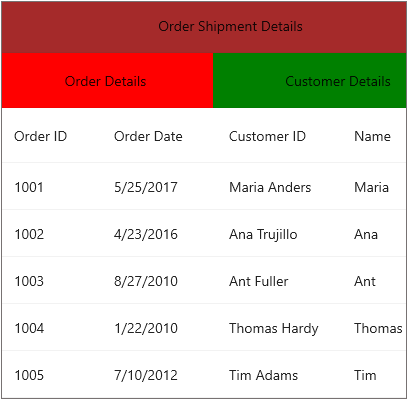
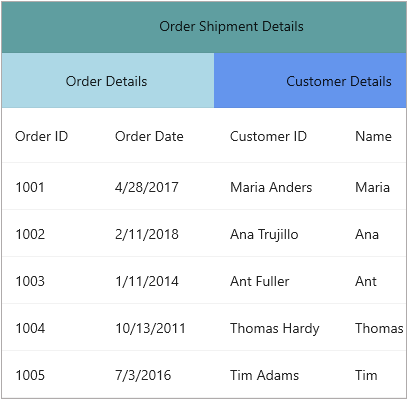
Updated code and image

diff --git a/MAUI/DataGrid/Stacked-Header.md b/MAUI/DataGrid/Stacked-Header.md
@@ -183,6 +183,7 @@ The appearance of stacked header row can be customized by setting desired values
 <syncfusion:SfDataGrid.DefaultStyle>
     <syncfusion:DataGridStyle
             StackedHeaderRowBackground = "#0074E3"
+            StackedHeaderRowTextColor="White"
             />
 </syncfusion:SfDataGrid.DefaultStyle>
 {% endhighlight %}
@@ -221,29 +222,29 @@ The SfDataGrid also allows to customize the appearance of stacked header Cells c
 {% highlight c# %}
 //Custom style class
  public class CellStyleConverter : IValueConverter
-        {
-            public object Convert(object value, Type targetType, object parameter, CultureInfo culture)
-            {
-                var text = (value as DataGridStackedHeaderCell).CellValue;
+{
+    public object Convert(object value, Type targetType, object parameter, CultureInfo culture)
+    {
+        var text = (value as DataGridStackedHeaderCell).CellValue;
 
-                if (text != null)
-                {
-                    if (text.ToString() == "Order Details")
-                    return Colors.Red;
-                else if (text.ToString() == "Order Shipment Details")
-                    return Colors.Brown;
-                else if (text.ToString() == "Customer Details")
-                    return Colors.Green;  
-                }
-                return Colors.White;
-            }
+    if (text != null)
+    {
+        if (text.ToString() == "Order Shipment Details")
+            return Colors.CadetBlue;
+        else if (text.ToString() == "Order Details")
+            return Colors.LightBlue;
+        else if (text.ToString() == "Customer Details")
+            return Colors.CornflowerBlue;               
+    }
+    return Colors.White;
+    }
 
-            public object ConvertBack(object value, Type targetType, object parameter, CultureInfo culture)
-            {
-                throw new NotImplementedException();
-            }
+    public object ConvertBack(object value, Type targetType, object parameter, CultureInfo culture)
+    {
+        throw new NotImplementedException();
+    }
 
-        }
+}
 {% endhighlight %}
 
 ![Customizing the background of stacked header row based on index](Images/stacked-headers/StackedHeaderConditionalStyle.png)
@@ -296,52 +297,53 @@ The SfDataGrid allows you to load any desired view inside a `DataGridStackedColu
 {% endhighlight %}
 {% highlight c# %}
 var stackedHeaderRow = new DataGridStackedHeaderRow();
-stackedHeaderRow.Columns.Add(new DataGridStackedColumn()
-    {
-        ColumnMappingNames = "OrderID" + "," + "OrderDate" + "," + "CustomerID" + "," + "ContactName",
-        Text = "Order Shipment Details",
-        MappingName = "SalesDetails",
-    });
-    dataGrid.StackedHeaderRows.Add(stackedHeaderRow);
-
-    var stackedHeaderRow1 = new DataGridStackedHeaderRow();
-    stackedHeaderRow1.Columns.Add(new DataGridStackedColumn()
-    {
-        ColumnMappingNames = "OrderID" + "," + "OrderDate",
-        Text = "Order Details",
-        MappingName = "OrderDetails",
-        Template = new DataTemplate(() =>
+        stackedHeaderRow.Columns.Add(new DataGridStackedColumn()
         {
-            var gridView = new Grid()
+            ColumnMappingNames = "OrderID" + "," + "OrderDate" + "," + "CustomerID" + "," + "ContactName",
+            Text = "Order Shipment Details",
+            MappingName = "SalesDetails",
+        });
+        dataGrid.StackedHeaderRows.Add(stackedHeaderRow);
+
+        var stackedHeaderRow1 = new DataGridStackedHeaderRow();
+        stackedHeaderRow1.Columns.Add(new DataGridStackedColumn()
+        {
+            ColumnMappingNames = "OrderID" + "," + "OrderDate",
+            Text = "Order Details",
+            MappingName = "OrderDetails",
+            
+        });
+        stackedHeaderRow1.Columns.Add(new DataGridStackedColumn()
+        {
+            ColumnMappingNames = "CustomerID" + "," + "ContactName",
+            Text = "Customer Details",
+            MappingName = "CustomerDetails",
+            Template = new DataTemplate(() =>
             {
-                BackgroundColor = Colors.MediumPurple,
-            };
-            var imageView = new Image()
-            {
-                Source = ImageSource.FromFile("customer_details.png"),
-                Aspect = Aspect.AspectFit,
-                VerticalOptions = LayoutOptions.Center,
-                HorizontalOptions = LayoutOptions.Start
-            };
-            var label = new Label()
-            {
-                Text = "Customer Details",
-                TextColor = Colors.White,
-                VerticalTextAlignment = TextAlignment.Center,
-                HorizontalTextAlignment = TextAlignment.Center
-            };
-            gridView.Add(label, 0, 0);
-            gridView.Add(imageView, 1, 0);
-            return gridView;
-        })
-    });
-    stackedHeaderRow1.Columns.Add(new DataGridStackedColumn()
-    {
-        ColumnMappingNames = "CustomerID" + "," + "ContactName",
-        Text = "Customer Details",
-        MappingName = "CustomerDetails",
-    });
-    this.dataGrid.StackedHeaderRows.Add(stackedHeaderRow1);
+                var gridView = new Grid()
+                {
+                    BackgroundColor = Colors.CornflowerBlue,
+                };
+                var imageView = new Image()
+                {
+                    Source = ImageSource.FromFile("customer_details.png"),
+                    Aspect = Aspect.AspectFit,
+                    VerticalOptions = LayoutOptions.Center,
+                    HorizontalOptions = LayoutOptions.Start
+                };
+                var label = new Label()
+                {
+                    Text = "Customer Details",
+                    TextColor = Colors.White,
+                    VerticalTextAlignment = TextAlignment.Center,
+                    HorizontalTextAlignment = TextAlignment.Center
+                };
+                gridView.Add(label, 0, 0);
+                gridView.Add(imageView, 1, 0);
+                return gridView;
+            })
+        });
+        this.dataGrid.StackedHeaderRows.Add(stackedHeaderRow1);
 {% endhighlight %}
 {% endtabs %}
 
